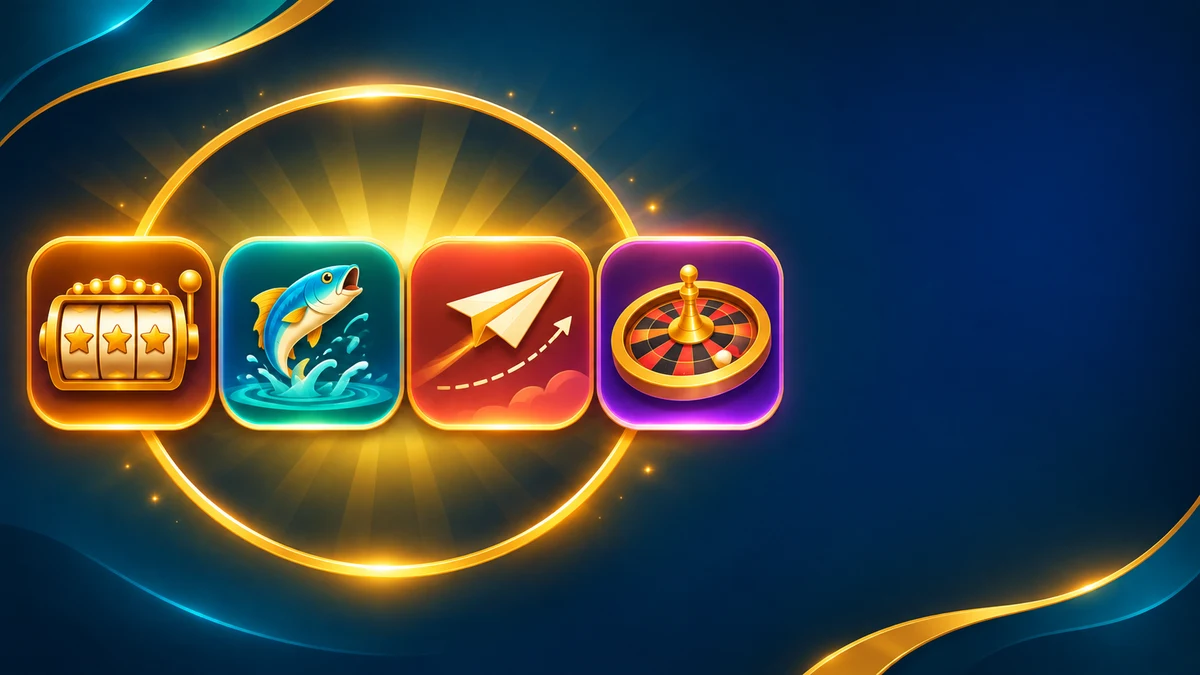
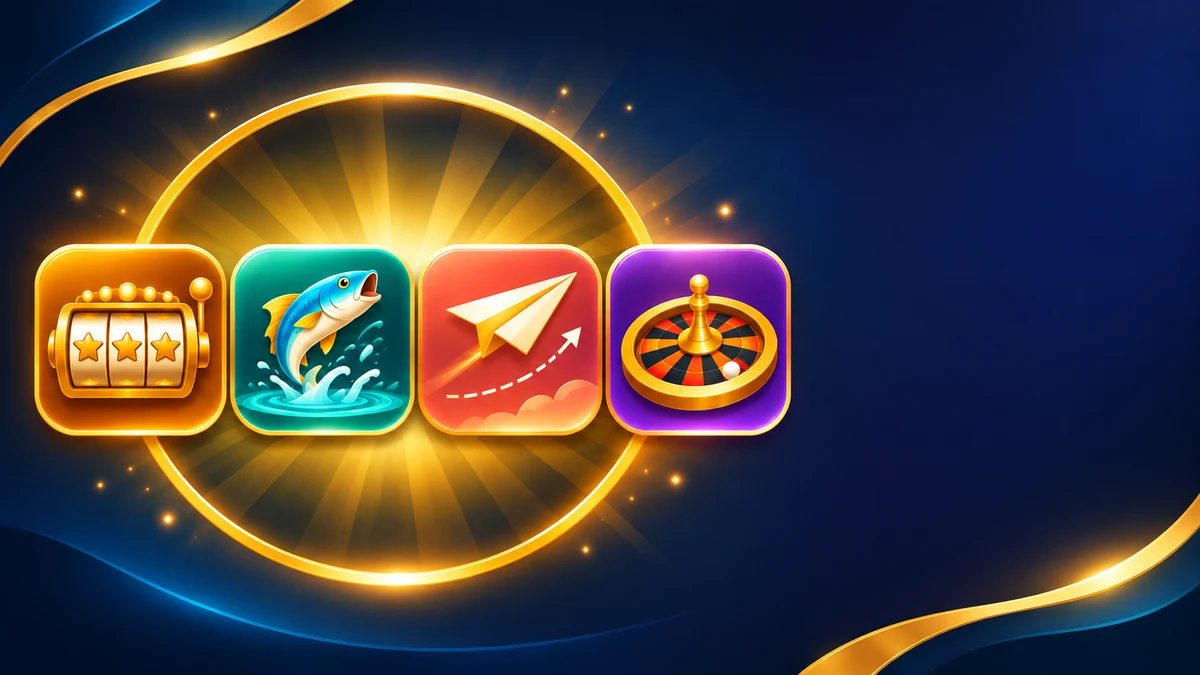
Rush Gala go-live: real download link, full article, final hero image

diff --git a/src/data/apps.ts b/src/data/apps.ts
@@ -626,21 +626,22 @@ export const apps: AppData[] = [
   },
 
   {
-    name: 'Rush Gala', slug: 'rush-gala', logo: '/logos/rush-gala.webp', category: 'Rummy',
-    tagline: 'Rush Gala — launching 23 November 2026',
-    description: 'Rush Gala is a new real-money rummy platform scheduled to launch on 23 November 2026 at 8:00 AM IST. As a pre-launch listing, its full feature set, welcome bonus and promo-code schedule have not yet been independently confirmed — this page will be updated as those details are verified after launch.',
-    rating: 0, downloads: 'New', size: 'New', minDeposit: 'Not yet confirmed', bonus: 'Not yet announced',
+    name: 'Rush Gala', slug: 'rush-gala', logo: '/logos/rush-gala.webp', category: 'Slots',
+    tagline: 'Rush Gala — now live',
+    description: 'Rush Gala launched on 23 November 2026 at 8:00 AM IST as a multi-game casino-style platform in the Yono network, covering Slots, Fishing, Fly and Roulette. As a newly launched app, its full feature set beyond the operator-stated bonus and deposit terms has not yet been independently confirmed — this listing will be updated as those details are verified.',
+    rating: 0, downloads: 'New', size: '33.4 MB', minDeposit: 'Rs.50-100', bonus: 'Rs.50-500 (random, per the operator\'s own listing)',
     features: [
-      'Real-cash rummy gameplay',
-      'Launching 23 November 2026, 8:00 AM IST',
+      'Four game types: Slots, Fishing, Fly, Roulette',
+      'Launched 23 November 2026, 8:00 AM IST',
     ],
-    downloadUrl: '',
+    downloadUrl: 'https://rushgala.club/?code=MBZQC5NXWUP&t=1795408331',
     faqs: [
-      { q: 'When does Rush Gala launch?', a: 'Rush Gala is scheduled to launch on 23 November 2026 at 8:00 AM IST. This listing will be updated with a download link once the app goes live.' },
-      { q: 'What is the welcome bonus on Rush Gala?', a: 'No welcome bonus has been announced yet. Check back here after launch for confirmed bonus details.' },
-      { q: 'Where can I download Rush Gala?', a: 'The download link is not yet available. Once Rush Gala launches on 23 November 2026, the official download link will be added to this page.' },
+      { q: 'Is Rush Gala available to download now?', a: 'Yes — Rush Gala launched on 23 November 2026 at 8:00 AM IST. Tap the Download button above to get the official app.' },
+      { q: 'What is the welcome bonus on Rush Gala?', a: "Per the operator's own listing, new signups receive a random bonus between Rs.50 and Rs.500. This has not been independently verified." },
+      { q: 'Where can I download Rush Gala?', a: 'Download Rush Gala from the link above. Do not trust APK links from unofficial sources.' },
     ],
     suggestedApps: ['123rummy', 'cash-rummy', 'money-rummy'],
+    relatedPost: 'rush-gala-guide',
   },
 
   // ── SPIN / WHEEL (9) ─────────────────────────────────────────────────────────

diff --git a/src/content/blog/rush-gala-guide.md b/src/content/blog/rush-gala-guide.md
@@ -1,142 +1,163 @@
 ---
-title: "Rush Gala Guide 2026 — Launch Date, Download, Promo Code & App Details"
-description: "Complete Rush Gala guide for the 23 Nov 2026 launch. Download status, promo code, expected features, and how it compares to other rummy apps in the Yono network."
-pubDate: "2026-11-22"
+title: "Rush Gala Guide 2026 — Download Link, Bonus & App Details"
+description: "Rush Gala launched 23 Nov 2026. Here's what's confirmed — the verified download link, the random welcome bonus range, and how it compares to other apps in the Yono network."
+pubDate: "2026-11-23"
 author: "YonoLink Team"
-tags: ["rush gala", "rush gala guide", "rush gala download", "rush gala promo code", "rush gala app 2026", "rush gala launch"]
+tags: ["rush gala", "rush gala guide", "rush gala download", "rush gala bonus", "rush gala app 2026", "rush gala launch"]
 image: "/blogs/rush-gala-guide.webp"
 featured: false
 ---
 
-**Rush Gala is a real-money rummy app launching on 23 November 2026 at 8:00 AM IST as the newest entry in the Yono network.** No download link or promo code has been confirmed yet — this guide covers everything announced so far and will be updated once the app goes live.
+Four game types just joined the Yono network under one new name. Rush Gala went live on 23 November 2026 at 8:00 AM IST, and the download link is already working; there's no waiting period, no placeholder page. Anyone who signs up gets a welcome bonus somewhere between Rs.50 and Rs.500, assigned at random rather than handed out as a fixed figure.
 
 ---
 
 ## Key Takeaways
 
-- **Launch date:** 23 November 2026, 8:00 AM IST
-- **Category:** Rummy (real-money card game)
-- **Download link:** Not yet available
-- **Promo code:** Not yet released
-- **Google Play:** Not found as of 22 November 2026
-- **Distribution:** Expected as sideloaded APK (standard for this network)
+- **Launch:** 23 November 2026, 8:00 AM IST — live
+- **Category:** Multi-game, casino-style platform
+- **Download:** Live now
+- **Welcome bonus:** Rs.50-500, randomly assigned at signup
+- **Minimum deposit:** Rs.50-100
+- **Minimum withdrawal:** Rs.100
+- **App size:** 33.4 MB
+- **Google Play:** Not found
 
 ---
 
 ## What Is Rush Gala?
 
-Rush Gala is a real-money rummy app scheduled to launch on 23 November 2026 as part of the wider Yono network. Beyond its name, category, and launch date, nothing else about the app has been independently confirmed — this page avoids guessing at features, bonus structure, or branding details until they're actually announced.
+Rush Gala is a real-money platform built around four separate game modes rather than one card game. That puts it in a different bucket from the rummy-heavy side of the Yono network. There's no 13-card rummy here; instead, players move between Slots, Fishing, Fly, and Roulette inside the same account, which is closer to how a casino floor is laid out than how a single-game rummy app works.
 
-The app is expected to be distributed as a sideloaded APK from the platform's own website, not through Google Play. This is the standard distribution method for apps in this network. If you're new to sideloading, see our [download guide](/blog/how-to-download-yono-game-apk) for the step-by-step process.
+The app ships as a direct download from the operator's own site rather than through Google Play, which is typical for this category of platform in this network. If sideloading an APK is new to you, our [download guide](/blog/how-to-download-yono-game-apk) walks through the permission prompts step by step.
 
 ---
 
-## Rush Gala Launch Date
+## Launch Status
 
-Rush Gala is scheduled to become available on **23 November 2026 at 8:00 AM IST**. Once live, its listing will appear on the [YonoLink.co homepage](/) with a direct link to the platform's download page.
+Rush Gala's rollout happened on schedule, at 8:00 AM IST on 23 November 2026. The listing on the [YonoLink.co homepage](/) now points straight at the live download link instead of a countdown.
 
 | Detail | Status |
 |--------|--------|
 | App name | Rush Gala |
-| Category | Rummy |
-| Expected launch | 23 November 2026, 8:00 AM IST |
-| APK download link | Not yet available |
+| Category | Multi-game casino-style |
+| Launch | 23 November 2026, 8:00 AM IST — Live |
+| Download link | Available |
+| App size | 33.4 MB |
 | Google Play listing | Not found |
-| File size | Not yet known |
-| Minimum Android | Not yet confirmed (likely 5.0+) |
+| Welcome bonus | Rs.50-500, random |
+| Minimum deposit | Rs.50-100 |
+| Minimum withdrawal | Rs.100 |
 
 ---
 
 ## How to Download Rush Gala
 
-The download link is not yet available. Once the app launches, follow these steps:
+<a href="https://rushgala.club/?code=MBZQC5NXWUP&t=1795408331" target="_blank" rel="noopener noreferrer sponsored">Download Rush Gala here</a>
 
-1. Visit the Rush Gala listing on [YonoLink.co](/) or the platform's own website
-2. Tap the download button to get the APK file
-3. If your phone blocks the install, go to **Settings → Security → Install unknown apps** and grant permission to your browser
-4. Open the downloaded APK and tap **Install**
-5. Launch the app and register with your phone number + OTP
+Once you've tapped the link above:
 
-For a detailed walkthrough of the sideloading process, see our [APK download guide](/blog/how-to-download-yono-game-apk).
+1. The download starts automatically and pulls a 33.4 MB file to your device
+2. If your phone blocks the install, head to **Settings → Security → Install unknown apps** and allow your browser to install apps
+3. Open the downloaded file and tap **Install**
+4. Launch Rush Gala and register with your phone number plus the OTP you receive
 
-**Do not trust any "Rush Gala APK" links circulating before the official launch.** Pre-launch APKs are not from the official source.
+For the full walkthrough with screenshots of each permission screen, see our [APK download guide](/blog/how-to-download-yono-game-apk).
 
----
-
-## Rush Gala Promo Code
-
-No Rush Gala promo code has been announced as of 22 November 2026. Based on how other apps in this network handle launches:
-
-- Promo codes are typically released inside the app itself at or shortly after launch
-- Codes are usually single-use and updated multiple times per day
-- A separate voucher code may also be available
-
-Once a Rush Gala code is confirmed, it will be added to our [Promo Codes page](/promo-codes). Check there daily for the latest codes across all platforms.
-
-For tips on how promo codes work across the network, see our [promo codes guide](/blog/yono-promo-codes-guide).
+Stick to the link on this page. Copies of "Rush Gala APK" floating around other sites aren't guaranteed to be the real build, and a sideloaded app from an unverified source is the easiest way to end up with something you didn't intend to install.
 
 ---
 
-## How Rush Gala Compares to Other Rummy Apps
+## Welcome Bonus & Deposit Details
 
-The Yono network already includes a large cluster of rummy apps. Here's where Rush Gala fits:
+Rush Gala doesn't quote a single welcome-bonus number. New accounts are assigned somewhere in the Rs.50 to Rs.500 range at signup, and which end of that range you land on appears to come down to chance rather than anything you control during registration. That randomness is worth flagging up front: if you see someone online quoting a flat "Rs.500 bonus," they may just have gotten lucky, not a figure the operator guarantees to everyone.
+
+Minimum deposit sits at Rs.50-100, which is low enough that you can test the app without putting much on the table. Minimum withdrawal is Rs.100. All three figures come straight from how the operator itself lists them, not from independent verification, so treat them as a starting point rather than a guarantee, and check the in-app terms before you deposit anything.
+
+---
+
+## Four Games, One App
+
+Rush Gala's pitch is breadth rather than depth in a single format. Here's what each mode covers:
+
+- **Slots** — the familiar reel-spin format, with randomized payouts per spin
+- **Fishing** — a shooter-style game where you target fish on screen for cash multipliers, a format that's picked up traction on several casino-style apps this year
+- **Fly** — a crash-style game where a multiplier climbs and you cash out before it drops
+- **Roulette** — the standard wheel-and-bet format, playable for real stakes inside the app
+
+Having all four under one account means you're not juggling separate logins or separate wallets the way you would across four single-purpose apps.
+
+---
+
+## How Rush Gala Compares
+
+Rush Gala isn't a rummy app, so judging it against rummy-specific titles only tells part of the story. Here's where it sits next to a few other live apps in the network:
 
 | App | Category | Status | Notable Detail |
 |-----|----------|--------|----------------|
-| Rush Gala | Rummy | Launching 23 Nov 2026 | Newest entry |
+| Rush Gala | Multi-game casino-style | Live — launched 23 Nov 2026 | Slots, Fishing, Fly, Roulette in one app |
+| [Yono 777](/app/yono-777) | Slots | Live | Reel-based slots platform |
+| [Dhan Game](/app/dhan-game) | Slots | Live | Established slots listing |
 | [123Rummy](/app/123rummy) | Rummy | Live | Launched 16 Nov 2026 |
 | [Cash Rummy](/app/cash-rummy) | Rummy | Live | 10-game platform, launched 5 Nov 2026 |
-| [Money Rummy](/app/money-rummy) | Rummy | Live | Points and deals rummy formats |
-| [Win Rummy](/app/win-rummy) | Rummy | Live | Established network listing |
-| [Gold Rummy](/app/gold-rummy) | Rummy | Live | Gold-themed branding |
 
-Each app has its own accounts, bonuses, and promo codes. Installing Rush Gala won't affect anything on other rummy apps.
-
-For a full breakdown of rummy apps on this network, see our [best Yono rummy apps](/blog/best-yono-rummy-apps) roundup.
+Each of these runs its own account system, its own bonus structure, and its own promo codes. Installing Rush Gala has no bearing on anything you've got running on the rummy side of the network. For a broader rundown of the slots side specifically, see our [Yono Slots apps compared](/blog/yono-slots-apps-compared) roundup.
 
 ---
 
 ## Safety Checks Before You Download
 
-We cannot fully assess Rush Gala's safety before the app launches. Once the APK is available, we recommend:
+A fresh launch is exactly when it pays to slow down for a minute before installing anything:
 
-1. **Verify the source** — download only from the platform's own website, not from forwarded links or third-party APK sites
-2. **Check permissions** — review what the app requests access to before granting anything
-3. **Read the terms** — check minimum withdrawal, wagering requirements, and KYC steps before depositing
-4. **Compare the package name** — once we publish Rush Gala's verified package name, confirm it matches what's on your device
+1. **Verify the source** — use the link on this page rather than a forwarded link or a third-party APK mirror
+2. **Check permissions** — look at what the app actually asks for during install and decide whether it's reasonable for a gaming app
+3. **Read the terms** — minimum withdrawal, any wagering requirements, and KYC steps are worth knowing before you deposit
+4. **Compare the package name** — once we're able to confirm Rush Gala's verified package name and signer details, we'll add them here so you can cross-check against what's on your device
 
-For a detailed safety walkthrough, see our [Win Rummy safety checklist](/blog/win-rummy-apk-safety-checklist) — the same checks apply to any new app.
+The same checklist applies to any newly launched app in this network — our [Win Rummy safety checklist](/blog/win-rummy-apk-safety-checklist) covers the reasoning behind each step in more depth.
 
 ---
 
 ## Legal Note
 
-Online money games are prohibited in India since 1 May 2026 under the Promotion and Regulation of Online Gaming Act, 2025. Rush Gala is a real-money app and falls under this prohibition. Players should confirm their state's specific regulations before playing.
+Real-money online gaming has been prohibited in India since 1 May 2026 under the Promotion and Regulation of Online Gaming Act, 2025. Rush Gala operates on a real-money basis and falls within that prohibition. Check the rules that apply where you live before playing for stakes.
 
 ---
 
 ## Frequently Asked Questions
 
-### When does Rush Gala launch?
+### Is Rush Gala available to download now?
 
-Rush Gala is scheduled to launch on 23 November 2026 at 8:00 AM IST. This guide will be updated with a download link and full review once the app goes live.
-
-### Is there a Rush Gala promo code?
-
-No promo code has been released yet. Check our [Promo Codes page](/promo-codes) after launch for daily-updated codes across all platforms.
-
-### Where can I download Rush Gala?
-
-The download link is not yet available. Once live, the Rush Gala listing on YonoLink.co will carry the current download URL. Do not trust any pre-launch APK link.
-
-### Is Rush Gala safe?
-
-Safety cannot be fully assessed before the app launches. Once the APK is available, this guide will be updated with package name, permissions, and signer certificate details.
+Yes. Rush Gala launched on 23 November 2026 at 8:00 AM IST, and the download link above is live.
 
 ### What is Rush Gala's welcome bonus?
 
-No welcome bonus has been confirmed. This guide will be updated with the actual figure once it's announced inside the app — treat any bonus amount you see elsewhere as unverified until then.
+New signups receive a randomly assigned bonus between Rs.50 and Rs.500, according to the operator's own listing. It isn't a fixed amount, so what you get can differ from what someone else reports.
+
+### What's the minimum deposit and withdrawal on Rush Gala?
+
+Minimum deposit is Rs.50-100, and minimum withdrawal is Rs.100, both as stated in the operator's own listing.
+
+### What games does Rush Gala offer?
+
+Four modes: Slots, Fishing, Fly, and Roulette, all inside a single account.
+
+### Is Rush Gala a rummy app?
+
+No. It's a multi-game casino-style platform, and there's no rummy or other card game on the app.
+
+### How big is the Rush Gala app?
+
+The download is 33.4 MB.
+
+### Is Rush Gala on Google Play?
+
+No listing has been found there as of launch. The app is distributed directly from the operator's own site.
+
+### Is Rush Gala safe to download?
+
+We haven't completed an independent safety review yet. Follow the safety checks above, and this guide will be updated with package name, permissions, and signer certificate details once that review is done.
 
 ---
 
-*This guide will be updated with verified download link, promo code, bonus details, and a hands-on review once Rush Gala launches on 23 November 2026. Bookmark this page or check [YonoLink.co](/) for the latest.*
+*This guide was updated on 23 November 2026 with the verified download link now that Rush Gala has launched. Bookmark this page or check [YonoLink.co](/) for the latest.*
